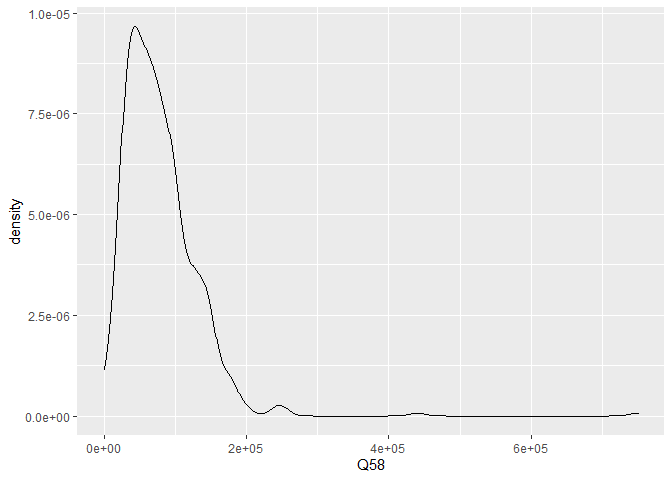
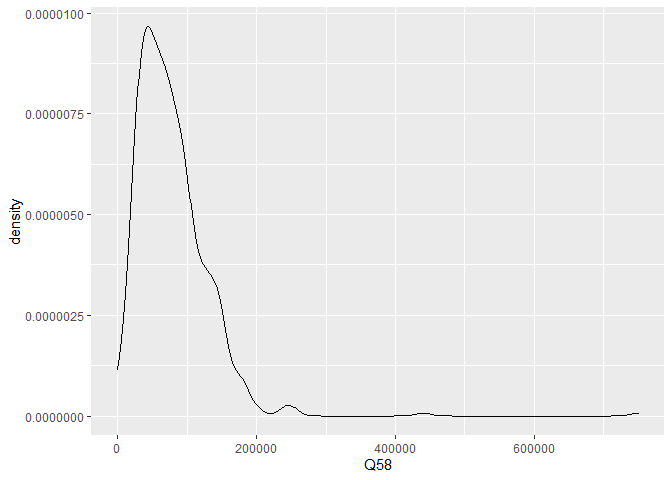
Changed scientific notation, plot should show correct numbers

diff --git a/Markdown-mani-et-al-replication.html b/Markdown-mani-et-al-replication.html
@@ -183,7 +183,7 @@ pre code {
 </div>
 <div id="results" class="section level3">
 <h3>Results</h3>
-We found no effects in an anova. <!-- html table generated in R 4.1.2 by xtable 1.8-4 package --> <!-- Tue Mar 01 15:12:38 2022 -->
+We found no effects in an anova. <!-- html table generated in R 4.1.2 by xtable 1.8-4 package --> <!-- Tue Mar 01 15:15:30 2022 -->
 <table border="1">
 <tr>
 <th>
@@ -283,8 +283,11 @@ Residuals
 </td>
 </tr>
 </table>
[3 lines of base64/hex data omitted]
+</div>
+<div id="discussion" class="section level3">
+<h3>Discussion</h3>
+<p>Perhaps something wrong with priming, perhaps it does not work. But it did in the original. Also - Bickel et al. (2016) managed to get effects with a somewhat similar priming (negative income shock in a short narrative text, participants asked to simply think about it for a while). This was on temporal discounting though, and not the IQ-effect described here. IQ-effect is probably not there.</p>
 </div>
 </div>
 

diff --git a/Markdown-mani-et-al-replication.md b/Markdown-mani-et-al-replication.md
@@ -36,7 +36,7 @@ Not ravens matrices but very similar – Hagen matrices (SOURCE HERE). Six round
 ### Results
 We found no effects in an anova. 
 <!-- html table generated in R 4.1.2 by xtable 1.8-4 package -->
-<!-- Tue Mar 01 15:12:38 2022 -->
+<!-- Tue Mar 01 15:15:30 2022 -->
 <table border=1>
 <tr> <th>  </th> <th> Df </th> <th> Sum Sq </th> <th> Mean Sq </th> <th> F value </th> <th> Pr(&gt;F) </th>  </tr>
   <tr> <td> priming </td> <td align="right"> 1 </td> <td align="right"> 3.86 </td> <td align="right"> 3.86 </td> <td align="right"> 1.46 </td> <td align="right"> 0.2276 </td> </tr>
@@ -47,7 +47,6 @@ We found no effects in an anova.
 
 ![](Markdown-mani-et-al-replication_files/figure-html/boxplot-1.png)<!-- -->![](Markdown-mani-et-al-replication_files/figure-html/boxplot-2.png)<!-- -->
 
-![](Markdown-mani-et-al-replication_files/figure-html/densityplot-1.png)<!-- -->
 ### Discussion
 Perhaps something wrong with priming, perhaps it does not work. But it did in the original. Also - Bickel et al. (2016) managed to get effects with a somewhat similar priming (negative income shock in a short narrative text, participants asked to simply think about it for a while). This was on temporal discounting though, and not the IQ-effect described here. IQ-effect is probably not there. 
 
